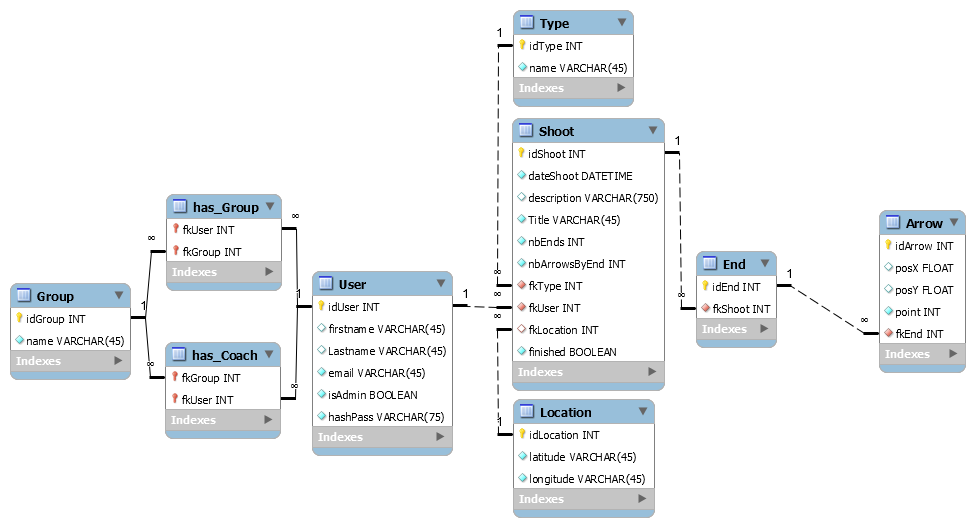
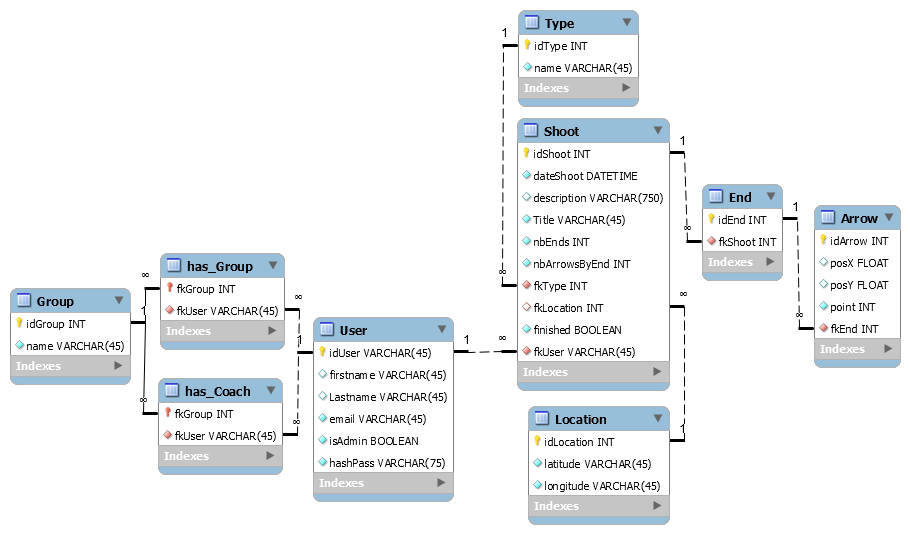
modifs DB et models

Changed region(s): [[0.0, 0.0, 1.0, 1.0], [0.7385, 0.8197, 0.7692, 0.8501], [0.7385, 0.2732, 0.7692, 0.3036]]

diff --git a/Sources/Site/api/dal/repository/definition/ends.js b/Sources/Site/api/dal/repository/definition/ends.js
@@ -16,15 +16,14 @@ module.exports = (props) => {
                     model: props.store.models.End
                 }]
             }).then((shoot) => {
-                if (shoot.Ends.length < shoot.dataValues.totalEnds) {
+                if (shoot.Ends.length < shoot.totalEnds) {
                     if (shoot.arrowsByEnd === endObj.arrows.length) {
                         props.store.models.End.create({
                             fkShoot: shoot.id
                         }).then((end) => {
-                            if (shoot.Ends.length + 1 === shoot.totalEnds) { //
+                            if (shoot.Ends.length + 1 === shoot.totalEnds) {
                                 props.store.repositories.shoots.finishShoot(shoot.id, (err, created) => {})
                             }
-
                             Promise.all(endObj.arrows.map((arrow) => {
                                 return props.store.models.Arrow.create({
                                     point: arrow.point,
@@ -39,7 +38,6 @@ module.exports = (props) => {
                                     status: 500 //TODO: Voir status correct
                                 }, null)
                             })
-
                             //callback(null, )
                         }).catch((err) => {
                             console.log(err)
@@ -55,6 +53,7 @@ module.exports = (props) => {
                         }, null)
                     }
                 } else {
+                    props.store.repositories.shoots.finishShoot(shoot.id, (err, created) => {})                    
                     callback({
                         error: "Too much ends, Shoot finished",
                         status: 404 //TODO: Voir status correct

diff --git a/Sources/Site/api/dal/repository/definition/shoots.js b/Sources/Site/api/dal/repository/definition/shoots.js
@@ -108,17 +108,17 @@ var calculateSummarySpecifications = (shoot, callback) => {
 
     shoot.Ends.forEach((end, index, array) => {
         end.Arrows.forEach((arrow, index, array) => {
-            total += arrow.Point
-            if (arrow.Point == 9) {
+            total += arrow.dataValues.point
+            if (arrow.dataValues.point == 9) {
                 nbNine++
-            } else if (arrow.Point == 10) {
+            } else if (arrow.dataValues.point == 10) {
                 nbTen++
             }
         })
         if (index == array.length - 1) {
-            shoot.averageArrow = total / (array.length * shoot.arrowsByEnd)
+            shoot.averageArrow = total / (array.length * shoot.dataValues.arrowsByEnd)
             shoot.total = total
-            shoot.goldHit = (nbNine + nbTen) / (array.length * shoot.arrowsByEnd)
+            shoot.goldHit = (nbNine + nbTen) / (array.length * shoot.dataValues.arrowsByEnd)
             shoot.tens = nbTen
             shoot.nines = nbNine
         }

diff --git a/Sources/Site/api/middlewares/passport.js b/Sources/Site/api/middlewares/passport.js
@@ -1,6 +1,7 @@
 var config = require('../../config/configs.json').passportFacebook
+var store = require('../dal')(require('../../config/configs.json').db)
 
-module.exports = (passport, Strategy) => {
+module.exports = (passport, Strategy, store) => {
     passport.use(new Strategy({
             clientID: config.clientID,
             clientSecret: config.clientSecret,

diff --git a/Sources/Site/api/dal/models/definition/User.js b/Sources/Site/api/dal/models/definition/User.js
@@ -2,10 +2,9 @@
 module.exports = function (sequelize, SeqInit) {
     let User = sequelize.define('User', {
         id: {
-            type: SeqInit.INTEGER,
+            type: SeqInit.STRING(45),
             allowNull: false,
             primaryKey: true,
-            autoIncrement: true,
             field: 'idUser'
         },
         firstname: {

diff --git a/Sources/Site/api/dal/models/definition/Shoot.js b/Sources/Site/api/dal/models/definition/Shoot.js
@@ -39,7 +39,7 @@ module.exports = function (sequelize, SeqInit) {
             field: 'fkType'
         },
         user: {
-            type: SeqInit.INTEGER,
+            type: SeqInit.STRING(45),
             allowNull: false,
             field: 'fkUser'
         },

diff --git a/Documentation/Annexes/API/apiDocumentation.md b/Documentation/Annexes/API/apiDocumentation.md
@@ -102,6 +102,7 @@ Règles de nommage:
         - GoldHit : Pourcentage de flèches dans le jaune (10 et 9)
         - Total : Points totaux
         - Ends.1.arrow1 : les données sont triées par l'API --> Arrow1 est toujours plus grand que le reste
+        
 * POST /api/shoots
     * Le POST va récupérer idUser dans session, il va créer un nouveau Shoot
     * Objet example :
